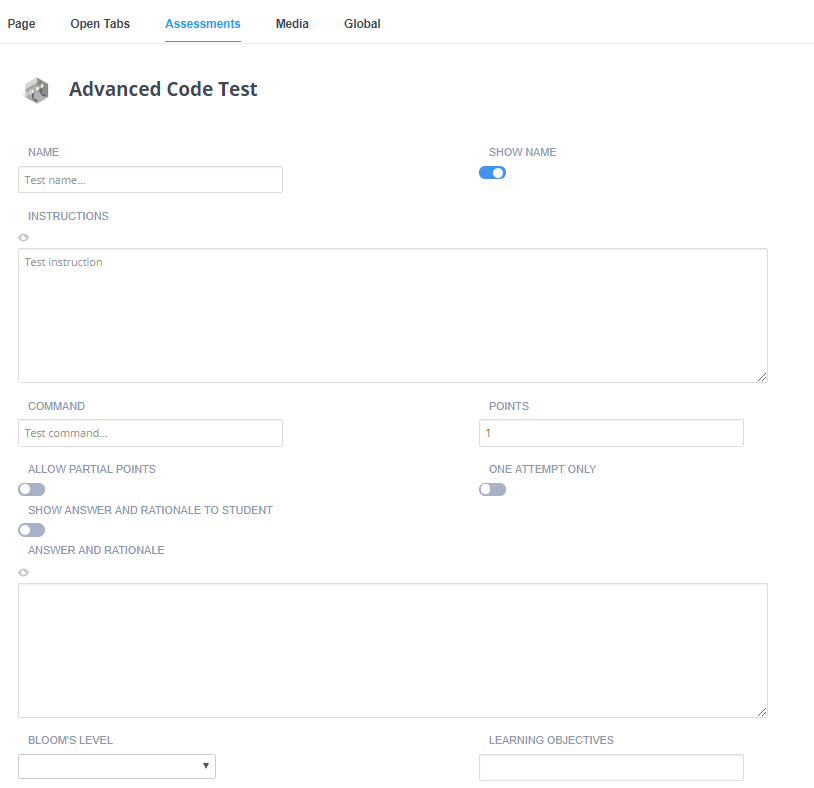
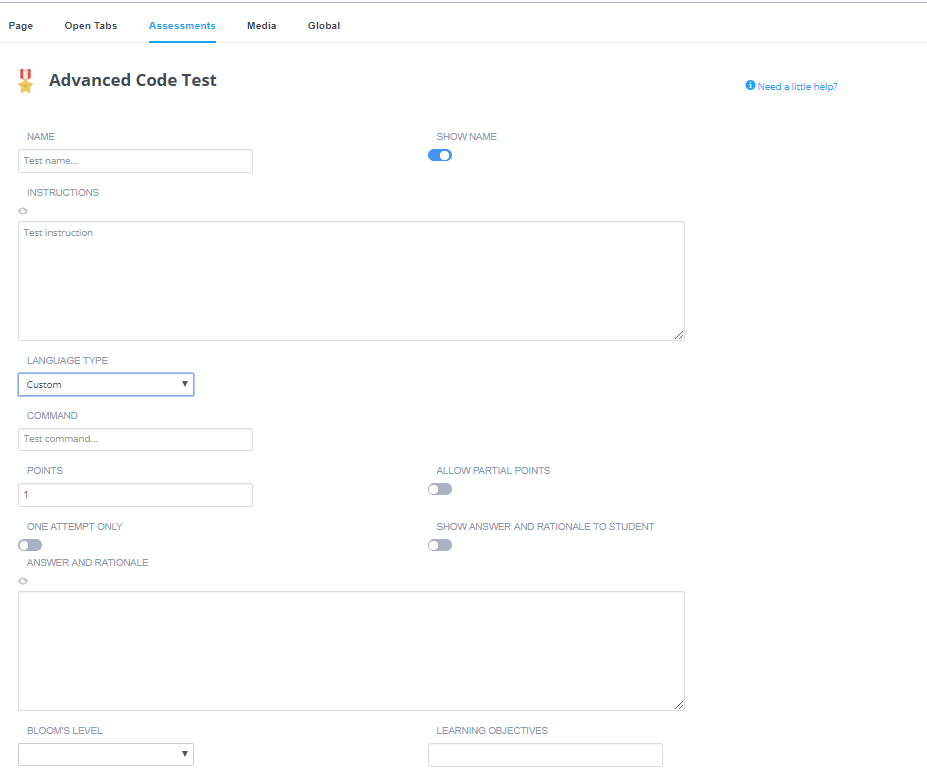
changelog #9578 #9596 #9593

diff --git a/source/docs/content/authoring/assessments/assessments-code-tests.html.md b/source/docs/content/authoring/assessments/assessments-code-tests.html.md
@@ -20,6 +20,11 @@ Setting up a Code Test within the Guide editor is very simple. As you can see fr
 
 - **Name** is a short name that describes the test. This name will appear in teacher dashboards, so naming it clearly is important so teachers can see precisely which challenges are successfully met (or not) by students. In many cases, you do not want to see this text appear within the challenge text the student sees. To suppress this text, flip the **Show Name** switch next to the name field.
 - **Instructions** is the actual text that should be shown to the user, written in markdown.
+- **Language Type** where you can select the language to use. 
+    - Ruby (>=2.0) requires `rubocop` and `rspec` gem
+    - Java (>=1.7) requires [Junit](/docs/ide/features/junit/) and `checkstyle`
+    
+            
 - **Command** is the command to run to invoke your test. See the section **Test code** below for more details.
 - **Points** is the score given to the student if the code test passes. You can choose any positive numeric value. Enabling the **Allow Partial Points** switch will allow partial points to be given. See the section **Partial Score** lower down on this page.
 - **One attempt only** allows the assessment to be run only once. This generally not advised unless you make it clear to the student that a failed test cannot be repeated. You should also provide a Run button in the Guide (or provide other instructions) so the user can test the code before running the actual assessment.

diff --git a/source/docs/misc/changelog.html.md b/source/docs/misc/changelog.html.md
@@ -13,6 +13,9 @@ We do not report small bug fixes or issues that affect individual users, who we 
 
 **April 2018**
 
+- `[F] [27th]`: Add support for Java and Ruby in [advanced code tests](/docs/content/authoring/assessments/assessments-code-tests/)
+- `[I] [27th]`: Improve handling of downloading files in private projects
+- `[I] [27th]`: Improve handling for [language server protocol](/docs/ide/boxes/installsw/langserver/)
 - `[I] [24th]`: Improve accessibility to support dialog actions accessible from keyboard
 - `[I] [24th]`: Fix issue with [replace](/docs/ide/editing/search-replace/) in projects
 - `[I] [20th]`: Fix grading issue with [rubric templates](/docs/classes/classmanagement/rubric/) 
